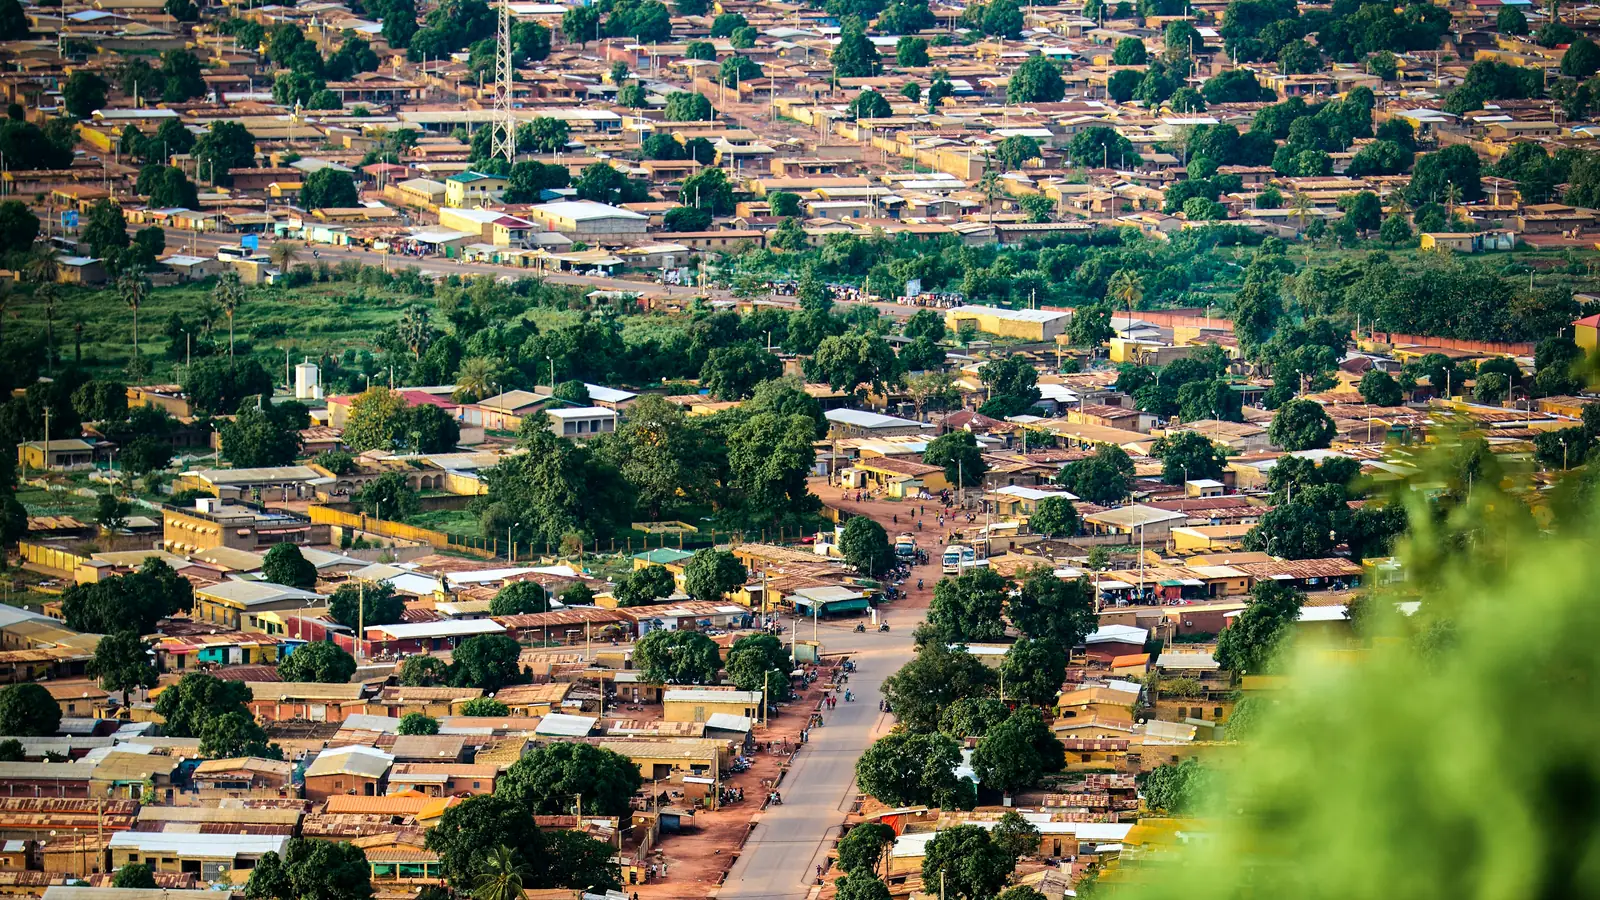
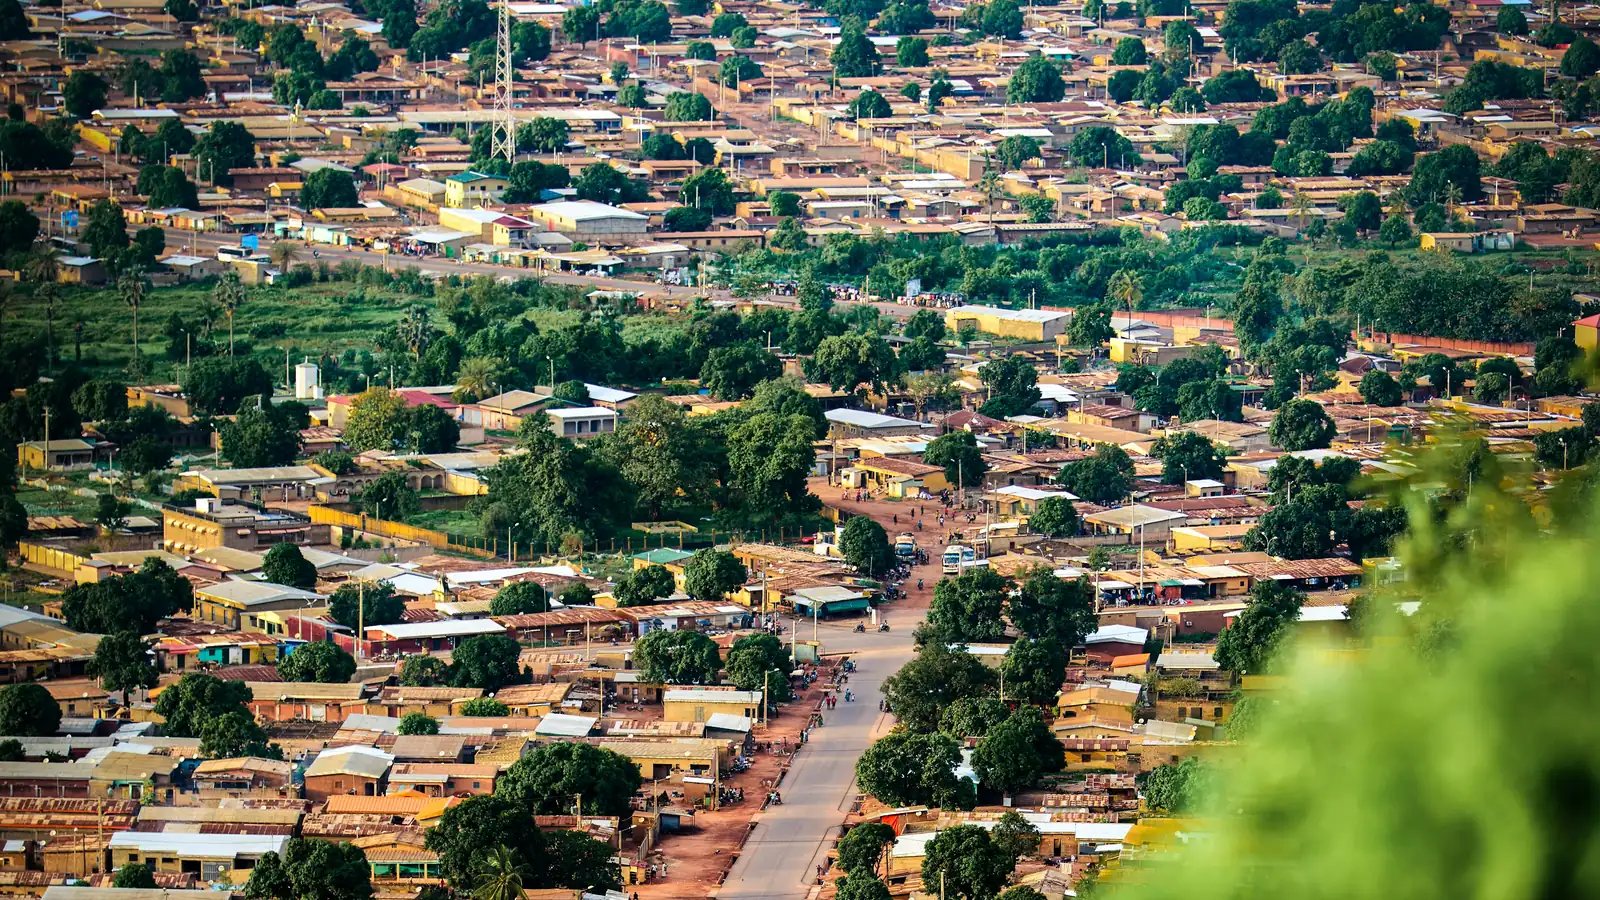
perf(design): alléger les photos d'ambiance et noter leurs sources
Vue aérienne en qualité 55, photo du gérant en 480 px sur téléphone :
105 Ko de photos sur mobile, 625 Ko sur ordinateur. Crédits remplis
pour les photos libres ; onboarding-2 reste à vérifier.

diff --git a/serveur/web/static/css/components/accueil.css b/serveur/web/static/css/components/accueil.css
@@ -327,3 +327,10 @@
   .accueil-piliers__grille { grid-template-columns: repeat(3, 1fr); }
   .accueil-prevention__reflexes { grid-template-columns: 1fr 1fr; }
 }
+
+/* Téléphone : photo du gérant en 480 px (après la règle de base, qu'elle remplace) */
+@media (max-width: 767px) {
+  .accueil-comment__carte--sombre {
+    background: var(--voile-gerant), url("../../design/photos/gerant-480.webp") center top / cover no-repeat, var(--night);
+  }
+}

diff --git a/outils/construire_photos.py b/outils/construire_photos.py
@@ -20,6 +20,8 @@ MOBILE = RACINE / "mobile/assets/photos"
 LARGEURS_SITE = (480, 960, 1600)
 LARGEUR_MOBILE = 960
 QUALITE = 70
+# Photos très détaillées (vue aérienne) : sous le voile sombre, une qualité plus basse ne se voit pas.
+QUALITE_PAR_PHOTO = {"accueil-1": 55}
 
 # nom : (destination, proportion largeur/hauteur, point d'intérêt x, y entre 0 et 1)
 RECETTES = {
@@ -73,7 +75,8 @@ def main() -> int:
             SITE.mkdir(parents=True, exist_ok=True)
             for cible in LARGEURS_SITE:  # jamais agrandie : sous la cible, la taille d'origine
                 sortie = SITE / f"{nom}-{cible}.webp"
-                reduire(image, cible).save(sortie, "WEBP", quality=QUALITE, method=6)
+                qualite = QUALITE_PAR_PHOTO.get(nom, QUALITE)
+                reduire(image, cible).save(sortie, "WEBP", quality=qualite, method=6)
         else:
             MOBILE.mkdir(parents=True, exist_ok=True)
             reduire(image, LARGEUR_MOBILE).save(

diff --git a/docs/design/credits-photos.md b/docs/design/credits-photos.md
@@ -5,15 +5,15 @@ versionné), WebP produits par `python outils/construire_photos.py` (recadrage f
 
 | Fichier | Où | Sujet | Source, auteur, licence |
 |---|---|---|---|
-| `accueil-1` | Bannière du site (1/3) | Ville ouest-africaine vue d'une colline, rue en terre rouge | à compléter |
-| `accueil-2` | Bannière du site (2/3) | Jeune femme souriante, casque et téléphone, en extérieur | à compléter |
+| `accueil-1` | Bannière du site (1/3) | Ville ouest-africaine vue d'une colline, rue en terre rouge | Shane Ryan Herilalaina, [Unsplash](https://unsplash.com/fr/photos/ville-densement-peuplee-avec-des-batiments-des-arbres-et-une-longue-route-d6u-HfWjex4), licence Unsplash |
+| `accueil-2` | Bannière du site (2/3) | Jeune femme souriante, casque et téléphone, en extérieur | Akinyemi Gbadamosi, [Retna](https://retna.io/photos/woman-wearing-headphones-f6Yrm9), conditions Retna §9 (usage commercial libre, crédit facultatif) |
 | `accueil-3` | Bannière du site (3/3) | Cour en terre rouge sous un manguier, portes bleues | générée par IA à partir d'un texte seul (2026-10-18) : aucune photo existante en modèle |
 | `gerant` | Carte « Je loue des chambres » de l'accueil | Homme en chemise wax devant un portail bleu | générée par IA à partir d'un texte seul (2026-10-18) : aucune photo existante en modèle |
 | `onboarding-1` | Présentation mobile, « Sois prévenu le premier » | Étudiante sur un banc, téléphone en main | générée par IA à partir d'un texte seul (2026-10-18) : aucune photo existante en modèle |
-| `onboarding-2` | Présentation mobile, « Des vraies chambres, en vidéo » | Mains qui filment une pièce au téléphone | à compléter |
-| `onboarding-3` | Présentation mobile, « Écris sans donner ton numéro » | Trois jeunes femmes qui discutent | à compléter |
+| `onboarding-2` | Présentation mobile, « Des vraies chambres, en vidéo » | Mains qui filment une pièce au téléphone | **à vérifier** : trouvée dans une galerie ArchDaily (article « Home-Renovation Reality Shows »), source d'origine inconnue |
+| `onboarding-3` | Présentation mobile, « Écris sans donner ton numéro » | Trois jeunes femmes qui discutent | Iwaria Inc., [Unsplash](https://unsplash.com/fr/photos/un-groupe-de-personnes-assises-sur-un-canape-regardant-un-ordinateur-portable-M7ALc3UuX_g), licence Unsplash (lien à confirmer : son titre évoque un ordinateur portable) |
 | `onboarding-4` | Présentation mobile, « Des gérants vérifiés » | Remise de clés devant un mur de clôture | générée par IA à partir d'un texte seul (2026-10-18) : aucune photo existante en modèle |
-| `bienvenue` | Écran de bienvenue mobile | Ville vue du ciel | à compléter |
+| `bienvenue` | Écran de bienvenue mobile | Ville vue du ciel | Tunde Buremo, [Unsplash](https://unsplash.com/fr/@tundeburemo) (vues aériennes d'Ibadan), licence Unsplash ; photo exacte à préciser |
 
 Règle : aucune image de banque payante (iStock, Shutterstock, Getty…), même retouchée ou débarrassée de son
 filigrane. Les images générées par IA partent d'un texte seul, jamais d'une photo existante. Pour les photos libres,
